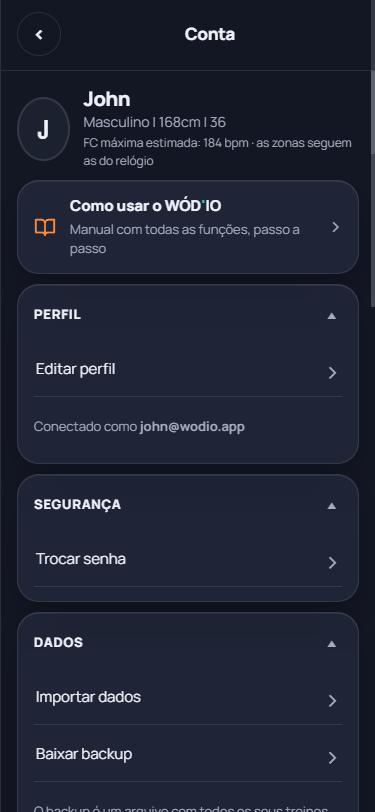
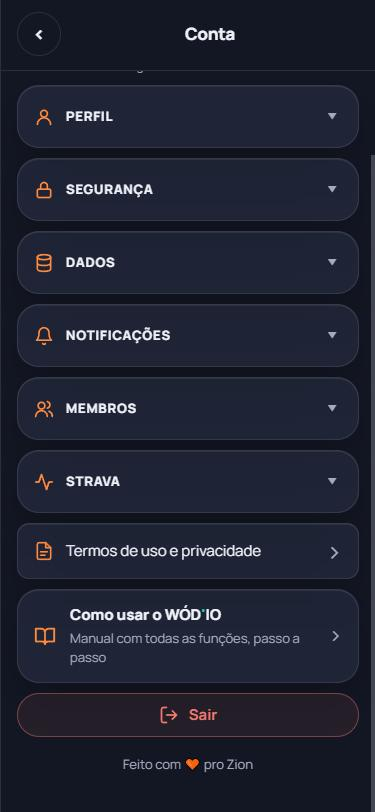
Conta: ícone em todos os itens e manual antes do Sair
Perfil, Meu ciclo, Segurança, Dados, Notificações, Membros, Strava, Termos e Sair com ícone de traço; o cartão Como usar o WÓD'IO desce para o fim. Print da Conta no manual atualizado.

diff --git a/index.html b/index.html
@@ -63,18 +63,18 @@
   <div class="mh"><button class="btn ghost voltar" data-close aria-label="Voltar">‹</button><h2 id="contaT">Conta</h2><span></span></div>
   <div class="mb">
     <div id="perfilCard"></div>
-    <a class="acc ajuda" href="manual.html" target="_blank" rel="noopener"><svg viewBox="0 0 24 24" width="22" height="22" fill="none" stroke="currentColor" stroke-width="2" stroke-linecap="round" stroke-linejoin="round" aria-hidden="true"><path d="M2 4h6a4 4 0 0 1 4 4v13a3 3 0 0 0-3-3H2zM22 4h-6a4 4 0 0 0-4 4v13a3 3 0 0 1 3-3h7z"/></svg><span><b>Como usar o WÓD<span class="ap">'</span>IO</b><small>Manual com todas as funções, passo a passo</small></span><i aria-hidden="true">›</i></a>
-    <details class="acc"><summary>Perfil</summary><div class="accb"><button class="accitem" id="btnPerfilEdit">Editar perfil</button><p class="note">Conectado como <b id="contaEmail"></b></p></div></details>
-    <details class="acc" id="accCiclo" hidden><summary>Meu ciclo</summary><div class="accb"><div id="cicloConf"></div></div></details>
-    <details class="acc"><summary>Segurança</summary><div class="accb"><button class="accitem" id="btnChangePw">Trocar senha</button></div></details>
-    <details class="acc"><summary>Dados</summary><div class="accb"><button class="accitem" id="btnImport2">Importar dados</button><button class="accitem" id="btnExport">Baixar backup</button>
+    <details class="acc"><summary><span class="acci"><svg viewBox="0 0 24 24" width="20" height="20" fill="none" stroke="currentColor" stroke-width="2" stroke-linecap="round" stroke-linejoin="round" aria-hidden="true"><circle cx="12" cy="8" r="4"/><path d="M4 21a8 8 0 0 1 16 0"/></svg>Perfil</span></summary><div class="accb"><button class="accitem" id="btnPerfilEdit">Editar perfil</button><p class="note">Conectado como <b id="contaEmail"></b></p></div></details>
+    <details class="acc" id="accCiclo" hidden><summary><span class="acci"><svg viewBox="0 0 24 24" width="20" height="20" fill="none" stroke="currentColor" stroke-width="2" stroke-linecap="round" stroke-linejoin="round" aria-hidden="true"><path d="M12 2.7 6.3 8.4a8 8 0 1 0 11.4 0z"/></svg>Meu ciclo</span></summary><div class="accb"><div id="cicloConf"></div></div></details>
+    <details class="acc"><summary><span class="acci"><svg viewBox="0 0 24 24" width="20" height="20" fill="none" stroke="currentColor" stroke-width="2" stroke-linecap="round" stroke-linejoin="round" aria-hidden="true"><rect x="4" y="11" width="16" height="10" rx="2"/><path d="M8 11V7a4 4 0 0 1 8 0v4"/></svg>Segurança</span></summary><div class="accb"><button class="accitem" id="btnChangePw">Trocar senha</button></div></details>
+    <details class="acc"><summary><span class="acci"><svg viewBox="0 0 24 24" width="20" height="20" fill="none" stroke="currentColor" stroke-width="2" stroke-linecap="round" stroke-linejoin="round" aria-hidden="true"><ellipse cx="12" cy="5" rx="8" ry="3"/><path d="M4 5v14c0 1.7 3.6 3 8 3s8-1.3 8-3V5M4 12c0 1.7 3.6 3 8 3s8-1.3 8-3"/></svg>Dados</span></summary><div class="accb"><button class="accitem" id="btnImport2">Importar dados</button><button class="accitem" id="btnExport">Baixar backup</button>
       <p class="note">O backup é um arquivo com todos os seus treinos, corridas e avaliações. Guarde no seu Drive ou mande pra você mesmo.</p>
       <h3 class="sech">Backups automáticos</h3><p class="note" style="margin-top:0">Todo dia de madrugada o sistema guarda uma cópia. Ficam os últimos 30 dias.</p><div id="bkList"></div></div></details>
-    <details class="acc"><summary>Notificações</summary><div class="accb"><div id="notifBox"></div></div></details>
-    <details class="acc" id="accMembros" hidden><summary>Membros</summary><div class="accb"><div id="membros"></div></div></details>
-    <details class="acc"><summary><span>Strava <span id="stravaPill"></span></span></summary><div class="accb"><div id="stravaBox"></div></div></details>
-    <button class="accitem solto" id="btnTermos">Termos de uso e privacidade</button>
-    <button class="btn danger sair" id="btnLogout">Sair</button>
+    <details class="acc"><summary><span class="acci"><svg viewBox="0 0 24 24" width="20" height="20" fill="none" stroke="currentColor" stroke-width="2" stroke-linecap="round" stroke-linejoin="round" aria-hidden="true"><path d="M6 8a6 6 0 0 1 12 0c0 7 3 9 3 9H3s3-2 3-9M10.3 21a1.9 1.9 0 0 0 3.4 0"/></svg>Notificações</span></summary><div class="accb"><div id="notifBox"></div></div></details>
+    <details class="acc" id="accMembros" hidden><summary><span class="acci"><svg viewBox="0 0 24 24" width="20" height="20" fill="none" stroke="currentColor" stroke-width="2" stroke-linecap="round" stroke-linejoin="round" aria-hidden="true"><circle cx="9" cy="8" r="4"/><path d="M2 21a7 7 0 0 1 14 0M16 3.1a4 4 0 0 1 0 7.8M22 21a7 7 0 0 0-4-6.3"/></svg>Membros</span></summary><div class="accb"><div id="membros"></div></div></details>
+    <details class="acc"><summary><span class="acci"><svg viewBox="0 0 24 24" width="20" height="20" fill="none" stroke="currentColor" stroke-width="2" stroke-linecap="round" stroke-linejoin="round" aria-hidden="true"><path d="M22 12h-4l-3 9L9 3l-3 9H2"/></svg>Strava <span id="stravaPill"></span></span></summary><div class="accb"><div id="stravaBox"></div></div></details>
+    <button class="accitem solto acci" id="btnTermos"><svg viewBox="0 0 24 24" width="20" height="20" fill="none" stroke="currentColor" stroke-width="2" stroke-linecap="round" stroke-linejoin="round" aria-hidden="true"><path d="M14 2H6a2 2 0 0 0-2 2v16a2 2 0 0 0 2 2h12a2 2 0 0 0 2-2V8z"/><path d="M14 2v6h6M8 13h8M8 17h5"/></svg>Termos de uso e privacidade</button>
+    <a class="acc ajuda" href="manual.html" target="_blank" rel="noopener"><svg viewBox="0 0 24 24" width="22" height="22" fill="none" stroke="currentColor" stroke-width="2" stroke-linecap="round" stroke-linejoin="round" aria-hidden="true"><path d="M2 4h6a4 4 0 0 1 4 4v13a3 3 0 0 0-3-3H2zM22 4h-6a4 4 0 0 0-4 4v13a3 3 0 0 1 3-3h7z"/></svg><span><b>Como usar o WÓD<span class="ap">'</span>IO</b><small>Manual com todas as funções, passo a passo</small></span><i aria-hidden="true">›</i></a>
+    <button class="btn danger sair acci" id="btnLogout"><svg viewBox="0 0 24 24" width="20" height="20" fill="none" stroke="currentColor" stroke-width="2" stroke-linecap="round" stroke-linejoin="round" aria-hidden="true"><path d="M9 21H5a2 2 0 0 1-2-2V5a2 2 0 0 1 2-2h4M16 17l5-5-5-5M21 12H9"/></svg>Sair</button>
     <p class="zion">Feito com 🧡 pro Zion</p>
   </div>
 </dialog>

diff --git a/manual.html b/manual.html
@@ -518,7 +518,7 @@ footer{margin-top:48px;padding-top:24px;border-top:1px solid var(--line);color:v
       <h2>Conta, Strava e backup</h2>
       <p>Toque na sua foto (ou inicial), no canto de cima, para abrir a <b>Conta</b>:</p>
       <ul class="lista">
-        <li><b>Como usar o WÓD<span class="ap">'</span>IO:</b> abre este manual.</li>
+        <li><b>Como usar o WÓD<span class="ap">'</span>IO</b> (no fim, antes do Sair): abre este manual.</li>
         <li><b>Perfil:</b> nome, foto, sexo, altura e nascimento.</li>
         <li><b>Dados:</b> <b>Baixar backup</b> gera um arquivo com todos os seus treinos, corridas e avaliações. Além disso, o sistema guarda uma cópia toda madrugada e mantém os últimos 30 dias.</li>
         <li><b>Notificações:</b> <b>O chamado das 5h</b>, uma cutucada por dia às 5h da manhã, com uma frase diferente. No iPhone, só funciona com o app instalado na Tela de Início.</li>
@@ -526,7 +526,7 @@ footer{margin-top:48px;padding-top:24px;border-top:1px solid var(--line);color:v
       </ul>
       <p>O botão da lua, no topo, troca entre o tema escuro e o claro.</p>
     </div>
-    <div class="tels"><figure class="tel"><div class="aparelho"><img src="assets/manual/conta.jpg" alt="Tela Conta com o atalho Como usar o WÓD'IO" loading="lazy"></div><figcaption>A Conta e o atalho para este manual.</figcaption></figure></div>
+    <div class="tels"><figure class="tel"><div class="aparelho"><img src="assets/manual/conta.jpg?v=2" alt="Tela Conta com o atalho Como usar o WÓD'IO" loading="lazy"></div><figcaption>A Conta e o atalho para este manual.</figcaption></figure></div>
   </div>
 </section>
 

diff --git a/assets/css/styles.css b/assets/css/styles.css
@@ -1299,3 +1299,12 @@ html{accent-color:var(--acc1);caret-color:var(--acc1)}
 .acc.ajuda i{font-style:normal;font-size:22px;color:var(--muted)}
 .acc.ajuda:hover{border-color:color-mix(in srgb,var(--acc1) 40%,var(--line))}
 .acc.ajuda .ap{color:var(--z2)}
+
+/* Conta: ícone em todos os itens, no traço do manual */
+.acci{display:inline-flex;align-items:center;gap:12px}
+.acci svg{color:var(--acc1-t);flex:none}
+.acc summary .acci #stravaPill{margin-left:2px}
+.accitem.solto.acci{display:flex;width:100%;justify-content:flex-start;align-items:center}
+.accitem.solto.acci::after{margin-left:auto}
+.btn.sair.acci{display:flex;justify-content:center;gap:10px}
+.btn.sair.acci svg{color:currentColor}

diff --git a/DESIGN.md b/DESIGN.md
@@ -443,8 +443,11 @@ O card leva no topo o selo do app, como o do relógio: o ícone (carinha laranja
 ### Treino de musculação
 Acima da lista de exercícios fica uma linha com a contagem ("11 exercícios", rótulo 13px em tom suave) e "+ exercício" à direita, além do botão no fim da lista. O exercício novo sempre entra no fim, para manter a ordem, e a tela rola até ele (sem animação com redução de movimento).
 
+### Conta
+Todos os itens têm um ícone de traço 20px no laranja de texto, antes do nome: Perfil (pessoa), Meu ciclo (gota), Segurança (cadeado), Dados (banco de dados), Notificações (sino), Membros (pessoas), Strava (linha de atividade) e Termos (documento). O Sair leva a porta com seta, na cor do botão. A ordem é: cartão do perfil, os grupos, Termos, Como usar o WÓD'IO e Sair.
+
 ### Manual do usuário
-`manual.html`, na raiz, é publicado junto com o app. Dá para mandar o link como apresentação, e ele também abre pela Conta, no cartão **Como usar o WÓD'IO** (ícone de livro laranja, logo abaixo do cartão do perfil). O cartão abre numa aba nova porque o app instalado no iPhone não tem botão de voltar.
+`manual.html`, na raiz, é publicado junto com o app. Dá para mandar o link como apresentação, e ele também abre pela Conta, no cartão **Como usar o WÓD'IO** (ícone de livro laranja, no fim da Conta, logo antes do Sair). O cartão abre numa aba nova porque o app instalado no iPhone não tem botão de voltar.
 - **Visual:** o mesmo mundo do app, com fundo marinho e os brilhos laranja e roxo, Manrope no texto, Barlow só nos números e o apóstrofo turquesa.
 - **Navegação:** menu lateral fixo em acordeão, com 5 grupos (Começando, Registrar, Depois do treino, Evolução, Conta) e as 17 seções numeradas. Só um grupo fica aberto por vez: abrir um fecha o outro, e a rolagem abre sozinha o grupo da seção que está na tela, que fica destacada. No celular, o menu abre por cima, a partir do botão "Menu" no topo.
 - **Strava:** aparece no manual como **Beta teste**, com o aviso "Apenas 10 vagas disponíveis no total".
